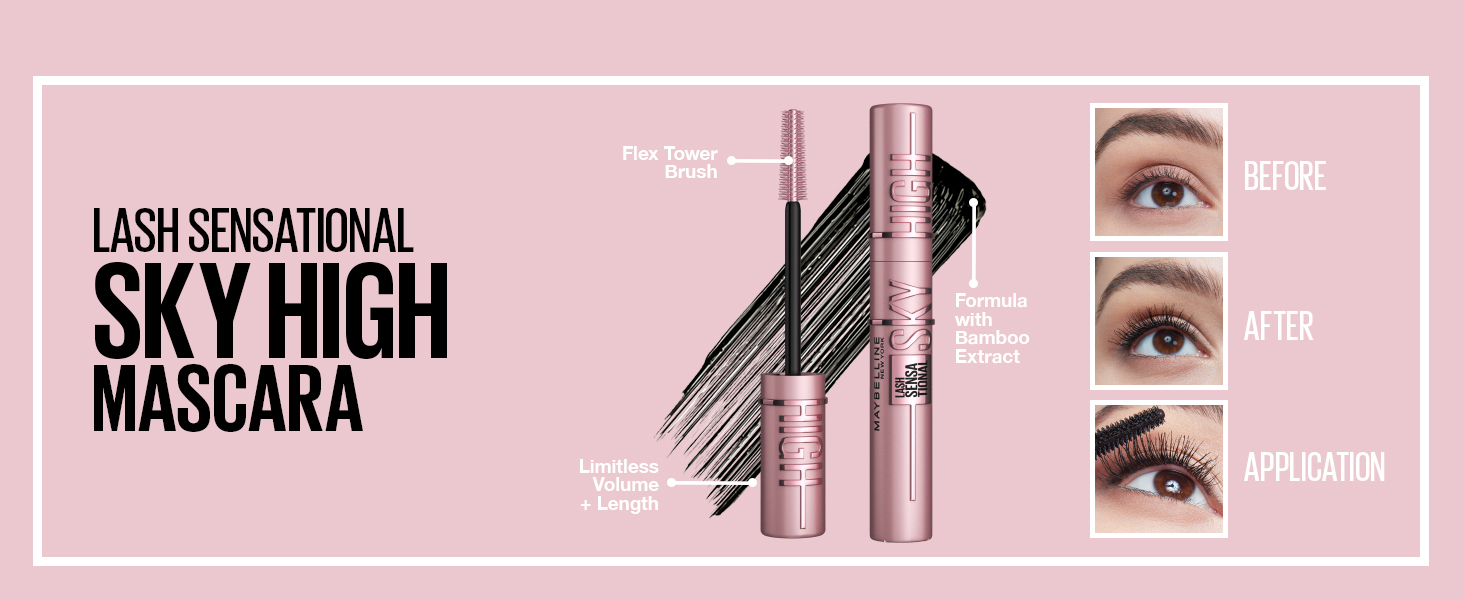
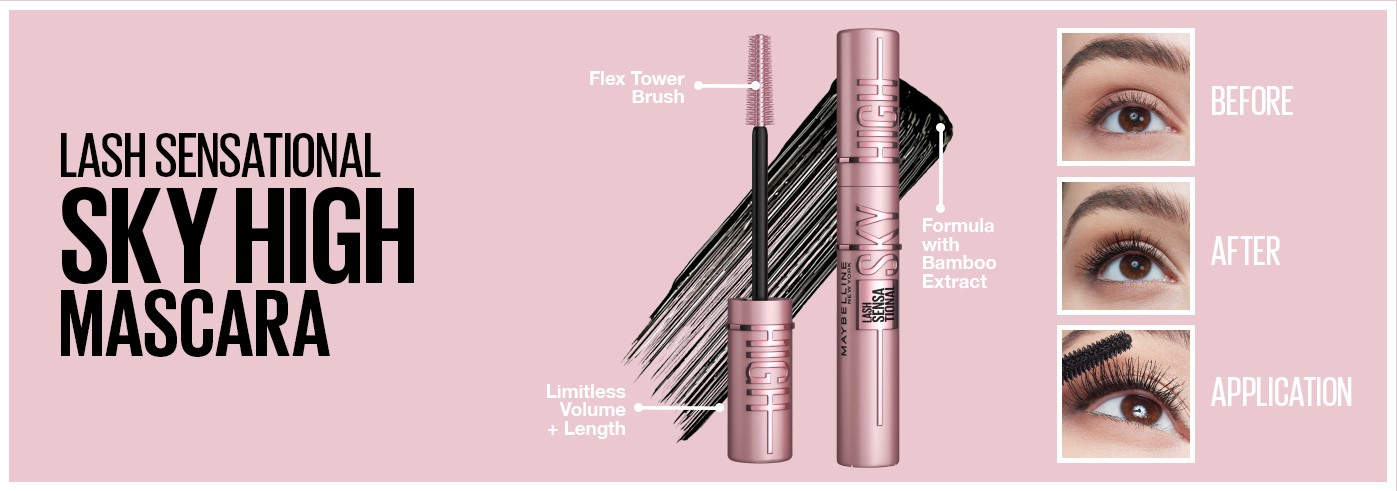
Realizando product-detail.html totalmente responsive

diff --git a/src/views/home.html b/src/views/home.html
@@ -46,7 +46,7 @@
       <h2>Nuevos productos</h2>
       <section class="products-section">
         <article class="home-product">
-          <p>LASH SENSATIONAL MÁSCARA DE PESTAÑAS SKY HIGH</p>
+          <p>Lash sensational máscara de pestañas sky high</p>
           <img
             class="image-product"
             src="./images/lash-maybelline.png"
@@ -56,13 +56,13 @@
         </article>
 
         <article class="home-product">
-          <p>PERFECT BLUSH TOO FACED</p>
+          <p>Perfect blush too faced</p>
           <img class="image-product" src="./images/foofaced-blush.jpg" alt="toofaced-blush" />
           <a class="price" href="#">$8.99 COMPRAR</a>
         </article>
 
         <article class="home-product">
-          <p>BASE LIQUIDA DE LARGA DURACION INFALLIBLE LOREAL</p>
+          <p>Base liquida ifallible l´oreal</p>
           <img
             class="image-product"
             src="./images/loreal-base.jpg"
@@ -72,7 +72,7 @@
         </article>
 
         <article class="home-product">
-          <p>POLVO COMPACTO DIVINE LBEL DOBLE USO</p>
+          <p>Polvo compacto doble uso divine L´bel</p>
           <img
             class="image-product"
             src="./images/lbel-polvocompacto.jpg"
@@ -84,9 +84,10 @@
       <a class="home-button" href="#">Ver todos</a>
 
       <h2>Productos mas vendidos</h2>
+
       <section class="products-section">
         <article class="home-product">
-          <p>LABIAL CHANEL ROUGE ALLURE</p>
+          <p>Labial rouge allure channel</p>
           <img
             class="image-product"
             src="./images/chanel-labial.webp"
@@ -96,13 +97,13 @@
         </article>
 
         <article class="home-product">
-          <p>BENETINT BENEFIT</p>
+          <p>Benetint benefit</p>
           <img class="image-product" src="./images/benefit-tint.jpg" alt="benefit-tint" />
           <a class="price" href="#">$4.99 COMPRAR</a>
         </article>
 
         <article class="home-product">
-          <p>CORRECTOR DE OJERAS TOO FACED</p>
+          <p>Corrector de ojeras too faced</p>
           <img
             class="image-product"
             src="./images/toofaced-corrector.png"
@@ -110,13 +111,20 @@
           />
           <a class="price" href="">$30.99 COMPRAR</a>
         </article>
+
+        <article class="home-product">
+          <p>Delineador liquido matte nyx</p>
+          <img class="image-product" src="./images/foofaced-blush.jpg" alt="toofaced-blush" />
+          <a class="price" href="#">$8.99 COMPRAR</a>
+        </article>
+
       </section>
       <a class="home-button" href="#">Ver todos</a>
 
       <h2>Ofertas</h2>
       <section class="products-section">
         <article class="home-product">
-          <p>MATE LIP KIT KYLIE COSMETICS</p>
+          <p>Mate lip kit kylie jenner</p>
           <img
             class="image-product"
             src="./images/kylie-labial.png"
@@ -126,7 +134,7 @@
         </article>
 
         <article class="home-product">
-          <p>BASE DE MAQUILLAJE ESTÉE LAUDER</p>
+          <p>Base liquida estee lauder</p>
           <img
             class="image-product"
             src="./images/base-estee.jpg"
@@ -136,7 +144,7 @@
         </article>
 
         <article class="home-product">
-          <p>CORRECTOR ESIKA PRO</p>
+          <p>Corrector esika pro</p>
           <img
             class="image-product"
             src="./images/esika-corrector.jpg"

diff --git a/src/views/product-detail.html b/src/views/product-detail.html
@@ -43,27 +43,34 @@
       </div>
     </header>
     <main>
-      <img
+
+        <img
         class="banner-detail"
         src="./images/banner-maybelline.jpg"
         alt="banner-maybelline"
       />
+      <div class="main-product-detail">
       <img
         class="img-detail"
         src="./images/maybelline-lash.webp"
         alt="maybelline-lash"
       />
-      <p class="product-detail">Lash sensational máscara de pestañas sky high Maybelline</p>
-      <p class="price-detail">$10.99</p>
-      <button class="product-addcar" type="button">
-        Añadir al carrito<em class="fa-solid fa-cart-shopping"></em>
-      </button>
-      <p class="p-detail">
-        Máscara de pestañas de volumen y alargamiento Sky High para un impacto
-        espectacular en las pestañas desde todos los ángulos. La máscara de
-        pestañas de larga duración ofrece un volumen completo y una longitud
-        ilimitada.
-      </p>
+      <div class="info-product-detail">
+        <p class="product-detail">Lash sensational máscara de pestañas sky high Maybelline</p>
+        <p class="price-detail">$10.99</p>
+        <button class="product-addcar" type="button">
+          Añadir al carrito<em class="fa-solid fa-cart-shopping"></em>
+        </button>
+        <p class="p-detail">
+          Máscara de pestañas de volumen y alargamiento Sky High para un impacto
+          espectacular en las pestañas desde todos los ángulos. La máscara de
+          pestañas de larga duración ofrece un volumen completo y una longitud
+          ilimitada.
+        </p>
+      </div>
+      </div>
+      
+      
     </main>
     <footer>
         <ul class="footer-bar">

diff --git a/public/css/styles.css b/public/css/styles.css
@@ -281,11 +281,53 @@ footer{
     .image-product{
         max-width: 211px;
     }
+    .banner-detail{
+       width: 80%;
 }
+.main-product-detail{
+    display: flex;
+    flex-wrap: wrap;
+    justify-content: space-around;
+    margin-bottom: 20px;
+
+}
+.info-product-detail{
+    width: 40%;
+   
+}
+}
+.img-detail{
+    width: 40%;
+   
+}
+
 @media(min-width: 1000px) {
     .home-product{
         width: 21%;
         display: flex;
         flex-direction: column;
+    }
+    .info-product-detail{
+        max-width: 300px;
+    }
+    .img-detail{
+        max-width: 300px;
+        width: 120%;
+        height: 140%;
+        margin-right: 9%;
+   
+   
+    }
+    .banner-detail{
+        max-width: 725px;
+        width: 70%;
+     
+    }
+    .main-product-detail{
+        max-width: 725px;
+        margin: auto;
+        margin-bottom: 50px;
+        margin-top: 50px;
+    
     }
 }
